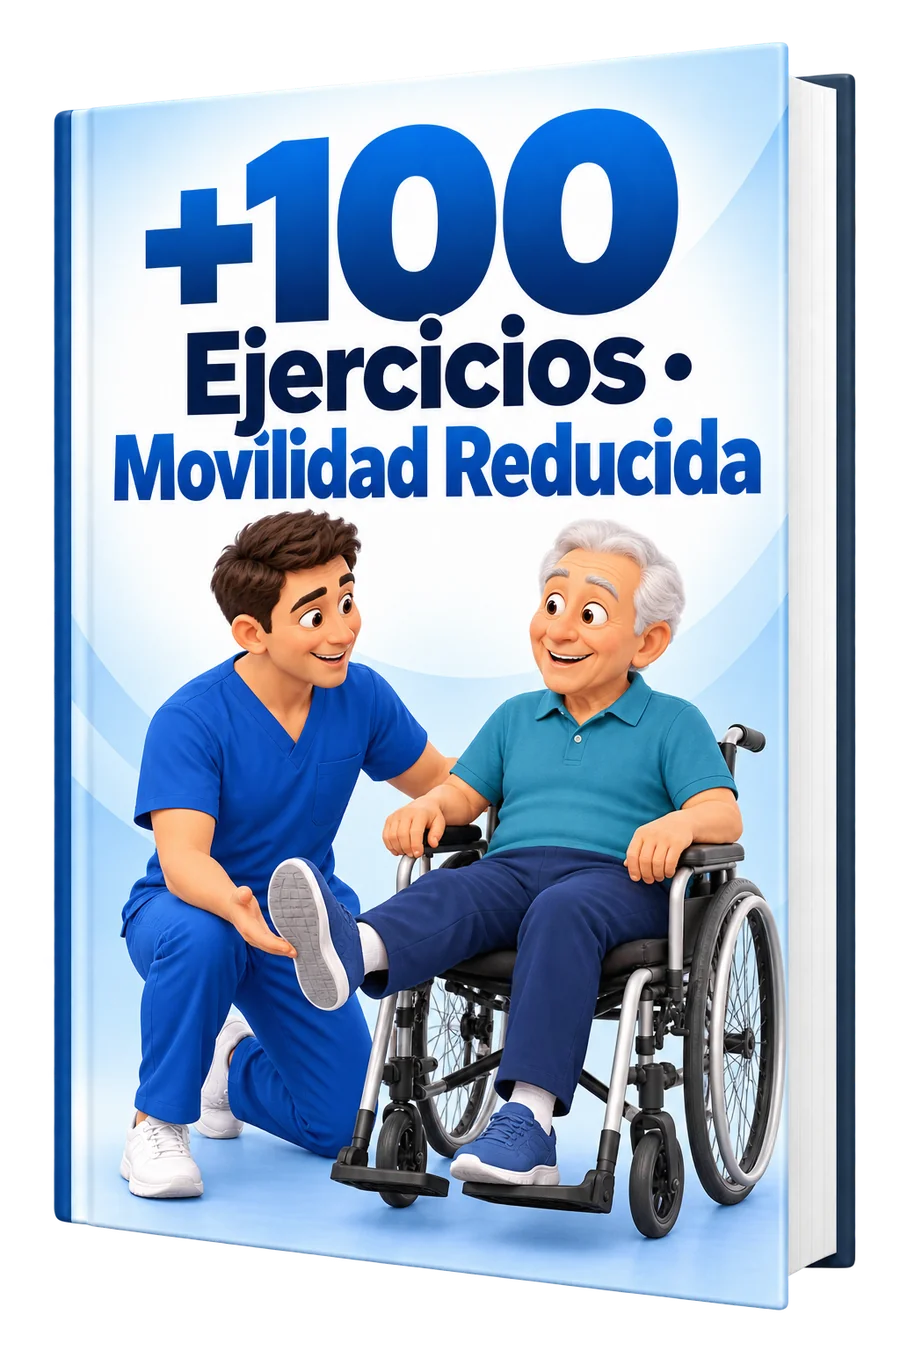
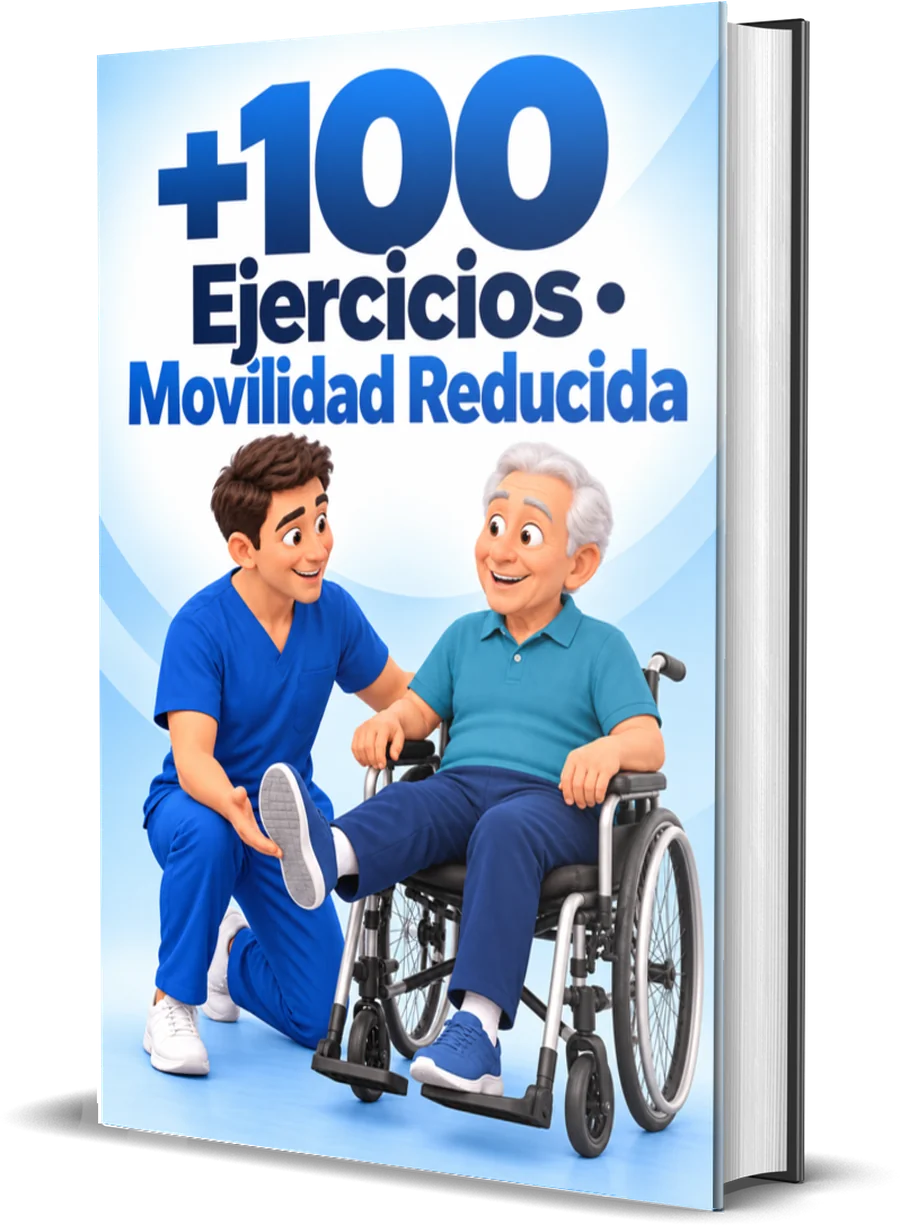
Hero mockup swap, bonus image refresh, green CTA theme, offer copy cleanup
Applies to both LATAM and BR pages:
- Hero and "Qué vas a recibir"/"O que você vai receber" mockups replaced
  with the new six-notebook collage, rendered at native size with no
  frame, shadow, or border (new .product-mockup-plain class). The
  existing mockup in the offer/CTA section is left untouched.
- All 5 bonus mockups replaced with the new real-book-cover artwork,
  matched to the correct bonus by content, cropped to a shared bbox and
  displayed full-size with no added background/border.
- Price figures and all buttons switched from purple to green.
- Offer-card shadow reduced further (thin border + much softer shadow).
- Segmentation badge above the hero headline removed on both pages.
- Em dashes removed from offer-section copy.

BR-specific:
- Star badge now reads "KIT PREMIUM"; heading simplified to "Material
  Completo". "Kit Básico — Acesso Essencial" simplified to "Kit Básico".
- Guarantee-section button now links directly to the Premium checkout
  instead of anchoring back to #oferta, and is added to the
  InitiateCheckout tracking list.

diff --git a/br/index.html b/br/index.html
@@ -141,19 +141,19 @@ section{padding:72px 0;position:relative;overflow:hidden}
   text-transform:uppercase;letter-spacing:.01em;text-decoration:none;
   padding:16px 30px;min-height:56px;
   border:0;border-radius:var(--r-btn);
-  background:linear-gradient(135deg,#A78BFA,#7C3AED);color:#fff;cursor:pointer;
+  background:linear-gradient(135deg,#34D399,#059669);color:#fff;cursor:pointer;
   box-shadow:var(--clay-btn);
   transition:transform .3s var(--bounce),box-shadow .3s var(--bounce);
   text-align:center;
 }
 .btn:hover{transform:translateY(-4px);box-shadow:var(--clay-btn-hover)}
 .btn:active{transform:scale(.92);box-shadow:var(--clay-pressed)}
-.btn:focus-visible{outline:none;box-shadow:0 0 0 4px rgba(124,58,237,.35),var(--clay-btn)}
+.btn:focus-visible{outline:none;box-shadow:0 0 0 4px rgba(16,185,129,.35),var(--clay-btn)}
 .btn .arrow{
   width:32px;height:32px;flex:0 0 32px;border-radius:50%;background:rgba(255,255,255,.22);
   display:grid;place-items:center;color:#fff;
 }
-.btn-green{background:linear-gradient(135deg,#10B981,#10B981);color:#fff}
+.btn-green{background:linear-gradient(135deg,#34D399,#059669);color:#fff}
 .btn-block{display:flex;width:100%}
 @media(max-width:520px){.btn{font-size:.9375rem;padding:14px 20px;gap:10px;min-height:52px}}
 
@@ -236,6 +236,10 @@ section{padding:72px 0;position:relative;overflow:hidden}
   display:block;width:auto;max-width:100%;height:auto;
   margin-inline:auto;border:0;border-radius:10px;
   box-shadow:0 24px 60px rgba(124,58,237,.18), 0 10px 24px rgba(51,47,58,.14);
+}
+.product-mockup-plain{
+  display:block;width:auto;max-width:100%;height:auto;
+  margin-inline:auto;border:0;border-radius:0;box-shadow:none;background:none;
 }
 
 /* ============ SECTION HEADINGS ============ */
@@ -417,7 +421,7 @@ section{padding:72px 0;position:relative;overflow:hidden}
 .offer-card{
   max-width:640px;margin:0 auto;background:#fff;color:var(--foreground);
   border:1px solid var(--tertiary);border-radius:var(--r-xl);
-  padding:36px;box-shadow:0 18px 40px rgba(245,158,11,.14),0 4px 14px rgba(124,58,237,.08);position:relative;
+  padding:36px;box-shadow:0 6px 18px rgba(124,58,237,.06);position:relative;
 }
 .star-badge{
   position:absolute;top:-22px;left:50%;transform:translateX(-50%) rotate(-4deg);
@@ -442,7 +446,7 @@ section{padding:72px 0;position:relative;overflow:hidden}
 }
 .price-main{
   font-family:"Nunito",sans-serif;font-weight:900;font-size:clamp(3rem,9vw,4.25rem);line-height:1;
-  background:linear-gradient(135deg,var(--accent),var(--secondary));
+  background:linear-gradient(135deg,#34D399,#059669);
   -webkit-background-clip:text;background-clip:text;color:transparent;
 }
 .price-inst{font-weight:700;margin-top:8px}
@@ -552,18 +556,13 @@ footer .disclaimer{margin-top:14px;color:#8B8597;font-size:.75rem}
   <div class="container">
     <div class="hero-grid">
       <div class="reveal">
-        <span class="badge">
-          <svg width="15" height="15" viewBox="0 0 24 24" fill="none" stroke="currentColor" stroke-width="2.5" stroke-linecap="round" stroke-linejoin="round"><path d="M12 2l2.4 7.4H22l-6.2 4.5 2.4 7.4-6.2-4.6-6.2 4.6 2.4-7.4L2 9.4h7.6z"/></svg>
-          FISIOTERAPEUTAS · TERAPEUTAS OCUPACIONAIS · PROFISSIONAIS DE EDUCAÇÃO FÍSICA · CUIDADORES
-        </span>
-
         <h1><span class="grad-text">1500 atividades</span> físicas, cognitivas e grupais adaptadas para <span class="grad-text">idosos</span></h1>
 
         <p class="lead">Exercícios físicos, atividades cognitivas e dinâmicas em grupo, organizados por objetivo e nível, com instruções passo a passo e ilustrações. Abra, escolha e prepare sua sessão em minutos.</p>
         <p class="support-line">Pare de planejar cada sessão do zero.</p>
 
         <div class="mockup-frame">
-          <img src="images/mockup1500.webp" alt="1500 Atividades para Idosos" class="product-mockup" width="1000" height="1500" loading="eager">
+          <img src="images/mockup-hero-new.webp" alt="1500 Atividades para Idosos" class="product-mockup-plain" width="1100" height="1100" loading="eager">
         </div>
 
         <ul class="hero-list">
@@ -712,7 +711,7 @@ footer .disclaimer{margin-top:14px;color:#8B8597;font-size:.75rem}
 
     <div class="reveal" style="margin-bottom:12px">
       <div class="mockup-frame" style="max-width:300px">
-        <img src="images/mockup1500.webp" alt="1500 Atividades para Idosos" class="product-mockup" width="1000" height="1500" loading="lazy">
+        <img src="images/mockup-hero-new.webp" alt="1500 Atividades para Idosos" class="product-mockup-plain" width="1100" height="1100" loading="lazy">
       </div>
     </div>
 
@@ -801,7 +800,7 @@ footer .disclaimer{margin-top:14px;color:#8B8597;font-size:.75rem}
       <div class="card bonus-card reveal">
         <span class="bonus-tag">Bônus 01</span>
         <h3>Guia de Avaliação Funcional do Idoso</h3>
-        <div class="bonus-img-wrap"><img src="images/bono1.webp" alt="Guia de Avaliação Funcional do Idoso" width="900" height="1037" loading="lazy"></div>
+        <div class="bonus-img-wrap"><img src="images/bono1.webp" alt="Guia de Avaliação Funcional do Idoso" width="900" height="1225" loading="lazy"></div>
         <p style="color:#475569;font-size:.9375rem;margin-top:8px">Você vai saber em que ponto seu idoso está desde o primeiro dia: seu equilíbrio, sua força, sua mobilidade e suas limitações, medidos com testes simples e claros. Com fichas prontas para registrar cada avaliação e ver, mês a mês, como ele evolui.</p>
         <div class="price-row">
           <span class="price-old">DE $19,90</span>
@@ -812,7 +811,7 @@ footer .disclaimer{margin-top:14px;color:#8B8597;font-size:.75rem}
       <div class="card bonus-card reveal">
         <span class="bonus-tag">Bônus 02</span>
         <h3>Guia de Adaptações por Condição de Saúde</h3>
-        <div class="bonus-img-wrap"><img src="images/bono2.webp" alt="Guia de Adaptações por Condição de Saúde" width="900" height="1350" loading="lazy"></div>
+        <div class="bonus-img-wrap"><img src="images/bono2.webp" alt="Guia de Adaptações por Condição de Saúde" width="900" height="1225" loading="lazy"></div>
         <p style="color:#475569;font-size:.9375rem;margin-top:8px">Orienta como adaptar cada atividade à condição do seu idoso: o que cuidar, o que evitar e quais são os sinais de alerta para parar a tempo. Um apoio para decidir com mais critério, sem substituir a avaliação profissional quando necessário.</p>
         <div class="price-row">
           <span class="price-old">DE $19,90</span>
@@ -823,7 +822,7 @@ footer .disclaimer{margin-top:14px;color:#8B8597;font-size:.75rem}
       <div class="card bonus-card reveal">
         <span class="bonus-tag">Bônus 03</span>
         <h3>Relatórios de Evolução para Famílias</h3>
-        <div class="bonus-img-wrap"><img src="images/bono4.webp" alt="Relatórios de Evolução para Famílias" width="900" height="984" loading="lazy"></div>
+        <div class="bonus-img-wrap"><img src="images/bono4.webp" alt="Relatórios de Evolução para Famílias" width="900" height="1225" loading="lazy"></div>
         <p style="color:#475569;font-size:.9375rem;margin-top:8px">Mostra a cada família, de forma clara e profissional, tudo o que o seu idoso avançou com você. Relatórios prontos para preencher e enviar, que transmitem confiança e respaldam seu trabalho.</p>
         <div class="price-row">
           <span class="price-old">DE $19,90</span>
@@ -834,7 +833,7 @@ footer .disclaimer{margin-top:14px;color:#8B8597;font-size:.75rem}
       <div class="card bonus-card reveal">
         <span class="bonus-tag">Bônus 04</span>
         <h3>+100 Exercícios · Mobilidade Reduzida</h3>
-        <div class="bonus-img-wrap"><img src="images/bono5.webp" alt="+100 Exercícios · Mobilidade Reduzida" width="900" height="1350" loading="lazy"></div>
+        <div class="bonus-img-wrap"><img src="images/bono5.webp" alt="+100 Exercícios · Mobilidade Reduzida" width="900" height="1225" loading="lazy"></div>
         <p style="color:#475569;font-size:.9375rem;margin-top:8px">Mais de 100 exercícios adaptados para idosos com mobilidade reduzida, com opções para realizar sentado. Amplie seu repertório e escolha atividades de acordo com as capacidades e necessidades de cada pessoa.</p>
         <div class="price-row">
           <span class="price-old">DE $19,90</span>
@@ -845,7 +844,7 @@ footer .disclaimer{margin-top:14px;color:#8B8597;font-size:.75rem}
       <div class="card bonus-card reveal">
         <span class="bonus-tag">Bônus 05</span>
         <h3>Montador de Sessões</h3>
-        <div class="bonus-img-wrap"><img src="images/bono6.webp" alt="Montador de Sessões" width="900" height="1350" loading="lazy"></div>
+        <div class="bonus-img-wrap"><img src="images/bono6.webp" alt="Montador de Sessões" width="900" height="1225" loading="lazy"></div>
         <p style="color:#475569;font-size:.9375rem;margin-top:8px">Modelos para organizar sessões por objetivo e nível, combinando aquecimento, força, mobilidade, equilíbrio e relaxamento. Escolha as atividades do material e monte sua sessão em um plano claro, sem começar do zero.</p>
         <div class="price-row">
           <span class="price-old">DE $19,90</span>
@@ -923,9 +922,9 @@ footer .disclaimer{margin-top:14px;color:#8B8597;font-size:.75rem}
     </div>
 
     <div class="offer-card reveal">
-      <span class="star-badge">MELHOR CUSTO-BENEFÍCIO</span>
+      <span class="star-badge">KIT PREMIUM</span>
 
-      <h3>Kit Premium — Material Completo</h3>
+      <h3>Material Completo</h3>
       <p class="offer-complement">Material completo + bônus incluídos</p>
 
       <div class="reveal" style="margin-bottom:26px">
@@ -945,7 +944,7 @@ footer .disclaimer{margin-top:14px;color:#8B8597;font-size:.75rem}
         <li><span class="gift-ico">🎁</span> Guia de Avaliação Funcional do Idoso</li>
         <li><span class="gift-ico">🎁</span> Guia de Adaptações por Condição de Saúde</li>
         <li><span class="gift-ico">🎁</span> Relatórios de Evolução para Famílias</li>
-        <li><span class="gift-ico">🎁</span> +100 Exercícios — Mobilidade Reduzida</li>
+        <li><span class="gift-ico">🎁</span> +100 Exercícios · Mobilidade Reduzida</li>
         <li><span class="gift-ico">🎁</span> Montador de Sessões</li>
         <li><span class="tick"><svg width="15" height="15" viewBox="0 0 24 24" fill="none" stroke="currentColor" stroke-width="3" stroke-linecap="round" stroke-linejoin="round"><polyline points="20 6 9 17 4 12"/></svg></span> Atualizações mensais</li>
         <li><span class="tick"><svg width="15" height="15" viewBox="0 0 24 24" fill="none" stroke="currentColor" stroke-width="3" stroke-linecap="round" stroke-linejoin="round"><polyline points="20 6 9 17 4 12"/></svg></span> Suporte prioritário</li>
@@ -972,7 +971,7 @@ footer .disclaimer{margin-top:14px;color:#8B8597;font-size:.75rem}
     </div>
 
     <div class="offer-card offer-basic reveal">
-      <h3>Kit Básico — Acesso Essencial</h3>
+      <h3>Kit Básico</h3>
 
       <ul class="offer-includes">
         <li><span class="tick"><svg width="15" height="15" viewBox="0 0 24 24" fill="none" stroke="currentColor" stroke-width="3" stroke-linecap="round" stroke-linejoin="round"><polyline points="20 6 9 17 4 12"/></svg></span> +500 atividades físicas, cognitivas e grupais adaptadas para idosos</li>
@@ -987,7 +986,7 @@ footer .disclaimer{margin-top:14px;color:#8B8597;font-size:.75rem}
         <li><span class="cross"><svg width="13" height="13" viewBox="0 0 24 24" fill="none" stroke="currentColor" stroke-width="3" stroke-linecap="round"><line x1="18" y1="6" x2="6" y2="18"/><line x1="6" y1="6" x2="18" y2="18"/></svg></span> Guia de Avaliação Funcional do Idoso</li>
         <li><span class="cross"><svg width="13" height="13" viewBox="0 0 24 24" fill="none" stroke="currentColor" stroke-width="3" stroke-linecap="round"><line x1="18" y1="6" x2="6" y2="18"/><line x1="6" y1="6" x2="18" y2="18"/></svg></span> Guia de Adaptações por Condição de Saúde</li>
         <li><span class="cross"><svg width="13" height="13" viewBox="0 0 24 24" fill="none" stroke="currentColor" stroke-width="3" stroke-linecap="round"><line x1="18" y1="6" x2="6" y2="18"/><line x1="6" y1="6" x2="18" y2="18"/></svg></span> Relatórios de Evolução para Famílias</li>
-        <li><span class="cross"><svg width="13" height="13" viewBox="0 0 24 24" fill="none" stroke="currentColor" stroke-width="3" stroke-linecap="round"><line x1="18" y1="6" x2="6" y2="18"/><line x1="6" y1="6" x2="18" y2="18"/></svg></span> +100 Exercícios — Mobilidade Reduzida</li>
+        <li><span class="cross"><svg width="13" height="13" viewBox="0 0 24 24" fill="none" stroke="currentColor" stroke-width="3" stroke-linecap="round"><line x1="18" y1="6" x2="6" y2="18"/><line x1="6" y1="6" x2="18" y2="18"/></svg></span> +100 Exercícios · Mobilidade Reduzida</li>
         <li><span class="cross"><svg width="13" height="13" viewBox="0 0 24 24" fill="none" stroke="currentColor" stroke-width="3" stroke-linecap="round"><line x1="18" y1="6" x2="6" y2="18"/><line x1="6" y1="6" x2="18" y2="18"/></svg></span> Montador de Sessões</li>
         <li><span class="cross"><svg width="13" height="13" viewBox="0 0 24 24" fill="none" stroke="currentColor" stroke-width="3" stroke-linecap="round"><line x1="18" y1="6" x2="6" y2="18"/><line x1="6" y1="6" x2="18" y2="18"/></svg></span> Acesso vitalício</li>
         <li><span class="cross"><svg width="13" height="13" viewBox="0 0 24 24" fill="none" stroke="currentColor" stroke-width="3" stroke-linecap="round"><line x1="18" y1="6" x2="6" y2="18"/><line x1="6" y1="6" x2="18" y2="18"/></svg></span> Garantia de 30 dias</li>
@@ -1025,7 +1024,7 @@ footer .disclaimer{margin-top:14px;color:#8B8597;font-size:.75rem}
       </div>
       <h2>Garantia de 7 dias no Básico e 30 dias no Premium</h2>
       <p>Você tem 7 dias de garantia no Kit Básico e 30 dias no Kit Premium para acessar o material e decidir com calma. Se não for o que você esperava, pode solicitar o reembolso integral de acordo com as condições do plano escolhido.</p>
-      <a href="#oferta" class="btn">
+      <a href="https://payfast.greenn.com.br/redirect/794052" class="btn" id="cta-garantia">
         Comprar agora
         <span class="arrow"><svg width="17" height="17" viewBox="0 0 24 24" fill="none" stroke="currentColor" stroke-width="2.5" stroke-linecap="round" stroke-linejoin="round"><line x1="5" y1="12" x2="19" y2="12"/><polyline points="12 5 19 12 12 19"/></svg></span>
       </a>
@@ -1141,10 +1140,10 @@ footer .disclaimer{margin-top:14px;color:#8B8597;font-size:.75rem}
 
 <script>
 // Evento InitiateCheckout somente nos botões de checkout real
-// (CTA do Kit Premium e CTA do Kit Básico).
+// (CTA do Kit Premium, CTA do Kit Básico e CTA da seção de garantia).
 // Os demais botões são âncoras para a seção de oferta, não disparam o evento.
 (function(){
-  var ids = ['cta-principal', 'cta-basico'];
+  var ids = ['cta-principal', 'cta-basico', 'cta-garantia'];
   ids.forEach(function(id){
     var el = document.getElementById(id);
     if(el){

diff --git a/index.html b/index.html
@@ -141,19 +141,19 @@ section{padding:72px 0;position:relative;overflow:hidden}
   text-transform:uppercase;letter-spacing:.01em;text-decoration:none;
   padding:16px 30px;min-height:56px;
   border:0;border-radius:var(--r-btn);
-  background:linear-gradient(135deg,#A78BFA,#7C3AED);color:#fff;cursor:pointer;
+  background:linear-gradient(135deg,#34D399,#059669);color:#fff;cursor:pointer;
   box-shadow:var(--clay-btn);
   transition:transform .3s var(--bounce),box-shadow .3s var(--bounce);
   text-align:center;
 }
 .btn:hover{transform:translateY(-4px);box-shadow:var(--clay-btn-hover)}
 .btn:active{transform:scale(.92);box-shadow:var(--clay-pressed)}
-.btn:focus-visible{outline:none;box-shadow:0 0 0 4px rgba(124,58,237,.35),var(--clay-btn)}
+.btn:focus-visible{outline:none;box-shadow:0 0 0 4px rgba(16,185,129,.35),var(--clay-btn)}
 .btn .arrow{
   width:32px;height:32px;flex:0 0 32px;border-radius:50%;background:rgba(255,255,255,.22);
   display:grid;place-items:center;color:#fff;
 }
-.btn-green{background:linear-gradient(135deg,#10B981,#10B981);color:#fff}
+.btn-green{background:linear-gradient(135deg,#34D399,#059669);color:#fff}
 .btn-block{display:flex;width:100%}
 @media(max-width:520px){.btn{font-size:.9375rem;padding:14px 20px;gap:10px;min-height:52px}}
 
@@ -236,6 +236,10 @@ section{padding:72px 0;position:relative;overflow:hidden}
   display:block;width:auto;max-width:100%;height:auto;
   margin-inline:auto;border:0;border-radius:10px;
   box-shadow:0 24px 60px rgba(124,58,237,.18), 0 10px 24px rgba(51,47,58,.14);
+}
+.product-mockup-plain{
+  display:block;width:auto;max-width:100%;height:auto;
+  margin-inline:auto;border:0;border-radius:0;box-shadow:none;background:none;
 }
 
 /* ============ SECTION HEADINGS ============ */
@@ -417,7 +421,7 @@ section{padding:72px 0;position:relative;overflow:hidden}
 .offer-card{
   max-width:640px;margin:0 auto;background:#fff;color:var(--foreground);
   border:1px solid var(--tertiary);border-radius:var(--r-xl);
-  padding:36px;box-shadow:0 18px 40px rgba(245,158,11,.14),0 4px 14px rgba(124,58,237,.08);position:relative;
+  padding:36px;box-shadow:0 6px 18px rgba(124,58,237,.06);position:relative;
 }
 .star-badge{
   position:absolute;top:-22px;left:50%;transform:translateX(-50%) rotate(-4deg);
@@ -442,7 +446,7 @@ section{padding:72px 0;position:relative;overflow:hidden}
 }
 .price-main{
   font-family:"Nunito",sans-serif;font-weight:900;font-size:clamp(3rem,9vw,4.25rem);line-height:1;
-  background:linear-gradient(135deg,var(--accent),var(--secondary));
+  background:linear-gradient(135deg,#34D399,#059669);
   -webkit-background-clip:text;background-clip:text;color:transparent;
 }
 .price-inst{font-weight:700;margin-top:8px}
@@ -539,18 +543,13 @@ footer .disclaimer{margin-top:14px;color:#8B8597;font-size:.75rem}
   <div class="container">
     <div class="hero-grid">
       <div class="reveal">
-        <span class="badge">
-          <svg width="15" height="15" viewBox="0 0 24 24" fill="none" stroke="currentColor" stroke-width="2.5" stroke-linecap="round" stroke-linejoin="round"><path d="M12 2l2.4 7.4H22l-6.2 4.5 2.4 7.4-6.2-4.6-6.2 4.6 2.4-7.4L2 9.4h7.6z"/></svg>
-          FISIOTERAPEUTAS · T.O. · EDUCADORES FÍSICOS · CUIDADORES
-        </span>
-
         <h1><span class="grad-text">1500</span> Actividades físicas, cognitivas y grupales para <span class="grad-text">Adultos Mayores</span></h1>
 
         <p class="lead">Ejercicios físicos, actividades cognitivas y dinámicas grupales, organizados por objetivo y nivel, con instrucciones paso a paso e ilustraciones. Abres, eliges y preparas tu sesión en minutos.</p>
         <p class="support-line">Deja de planificar cada sesión desde cero.</p>
 
         <div class="mockup-frame">
-          <img src="images/mockup1500.webp" alt="1500 Actividades para Adultos Mayores" class="product-mockup" width="1000" height="1500" loading="eager">
+          <img src="images/mockup-hero-new.webp" alt="1500 Actividades para Adultos Mayores" class="product-mockup-plain" width="1100" height="1100" loading="eager">
         </div>
 
         <ul class="hero-list">
@@ -699,7 +698,7 @@ footer .disclaimer{margin-top:14px;color:#8B8597;font-size:.75rem}
 
     <div class="reveal" style="margin-bottom:12px">
       <div class="mockup-frame" style="max-width:300px">
-        <img src="images/mockup1500.webp" alt="1500 Actividades para Adultos Mayores" class="product-mockup" width="1000" height="1500" loading="lazy">
+        <img src="images/mockup-hero-new.webp" alt="1500 Actividades para Adultos Mayores" class="product-mockup-plain" width="1100" height="1100" loading="lazy">
       </div>
     </div>
 
@@ -788,7 +787,7 @@ footer .disclaimer{margin-top:14px;color:#8B8597;font-size:.75rem}
       <div class="card bonus-card reveal">
         <span class="bonus-tag">Bono 01</span>
         <h3>Guía de Evaluación Funcional del Adulto Mayor</h3>
-        <div class="bonus-img-wrap"><img src="images/bono1.webp" alt="Guía de Evaluación Funcional del Adulto Mayor" width="900" height="1038" loading="lazy"></div>
+        <div class="bonus-img-wrap"><img src="images/bono1.webp" alt="Guía de Evaluación Funcional del Adulto Mayor" width="900" height="1225" loading="lazy"></div>
         <p style="color:#635F69;font-size:.9375rem;margin-top:8px">Sabrás en qué punto está tu adulto mayor desde el primer día: su equilibrio, su fuerza, su movilidad y sus limitaciones, medidos con pruebas simples y claras. Con fichas listas para registrar cada evaluación y ver, mes a mes, cómo avanza.</p>
         <div class="price-row">
           <span class="price-old">DE $19,90</span>
@@ -799,7 +798,7 @@ footer .disclaimer{margin-top:14px;color:#8B8597;font-size:.75rem}
       <div class="card bonus-card reveal">
         <span class="bonus-tag">Bono 02</span>
         <h3>Guía de Adaptaciones por Condición de Salud</h3>
-        <div class="bonus-img-wrap"><img src="images/bono2.webp" alt="Guía de Adaptaciones por Condición de Salud" width="900" height="1350" loading="lazy"></div>
+        <div class="bonus-img-wrap"><img src="images/bono2.webp" alt="Guía de Adaptaciones por Condición de Salud" width="900" height="1225" loading="lazy"></div>
         <p style="color:#635F69;font-size:.9375rem;margin-top:8px">Te orienta cómo adaptar cada actividad a la condición de tu adulto mayor: qué cuidar, qué evitar y cuáles son las señales de alerta para detenerte a tiempo. Un apoyo para decidir con más criterio, sin reemplazar la valoración profesional cuando corresponda.</p>
         <div class="price-row">
           <span class="price-old">DE $19,90</span>
@@ -810,7 +809,7 @@ footer .disclaimer{margin-top:14px;color:#8B8597;font-size:.75rem}
       <div class="card bonus-card reveal">
         <span class="bonus-tag">Bono 03</span>
         <h3>Informes de Evolución para Familias</h3>
-        <div class="bonus-img-wrap"><img src="images/bono4.webp" alt="Informes de Evolución para Familias" width="900" height="984" loading="lazy"></div>
+        <div class="bonus-img-wrap"><img src="images/bono4.webp" alt="Informes de Evolución para Familias" width="900" height="1225" loading="lazy"></div>
         <p style="color:#635F69;font-size:.9375rem;margin-top:8px">Muestra a cada familia, de forma clara y profesional, todo lo que tu adulto mayor ha avanzado contigo. Informes listos para completar y enviar, que transmiten confianza y respaldan tu trabajo.</p>
         <div class="price-row">
           <span class="price-old">DE $19,90</span>
@@ -821,7 +820,7 @@ footer .disclaimer{margin-top:14px;color:#8B8597;font-size:.75rem}
       <div class="card bonus-card reveal">
         <span class="bonus-tag">Bono 04</span>
         <h3>+100 Ejercicios · Movilidad Reducida</h3>
-        <div class="bonus-img-wrap"><img src="images/bono5.webp" alt="+100 Ejercicios · Movilidad Reducida" width="900" height="1350" loading="lazy"></div>
+        <div class="bonus-img-wrap"><img src="images/bono5.webp" alt="+100 Ejercicios · Movilidad Reducida" width="900" height="1225" loading="lazy"></div>
         <p style="color:#635F69;font-size:.9375rem;margin-top:8px">Más de 100 ejercicios adaptados para adultos mayores con movilidad reducida, con opciones para realizar en silla. Amplía tu repertorio y elige actividades según las capacidades y necesidades de cada persona.</p>
         <div class="price-row">
           <span class="price-old">DE $19,90</span>
@@ -832,7 +831,7 @@ footer .disclaimer{margin-top:14px;color:#8B8597;font-size:.75rem}
       <div class="card bonus-card reveal">
         <span class="bonus-tag">Bono 05</span>
         <h3>Armador de Sesiones</h3>
-        <div class="bonus-img-wrap"><img src="images/bono6.webp" alt="Armador de Sesiones" width="900" height="1350" loading="lazy"></div>
+        <div class="bonus-img-wrap"><img src="images/bono6.webp" alt="Armador de Sesiones" width="900" height="1225" loading="lazy"></div>
         <p style="color:#635F69;font-size:.9375rem;margin-top:8px">Plantillas para organizar sesiones por objetivo y nivel, combinando calentamiento, fuerza, movilidad, equilibrio y relajación. Elige las actividades del material y reúne tu sesión en un plan claro, sin empezar desde cero.</p>
         <div class="price-row">
           <span class="price-old">DE $19,90</span>
